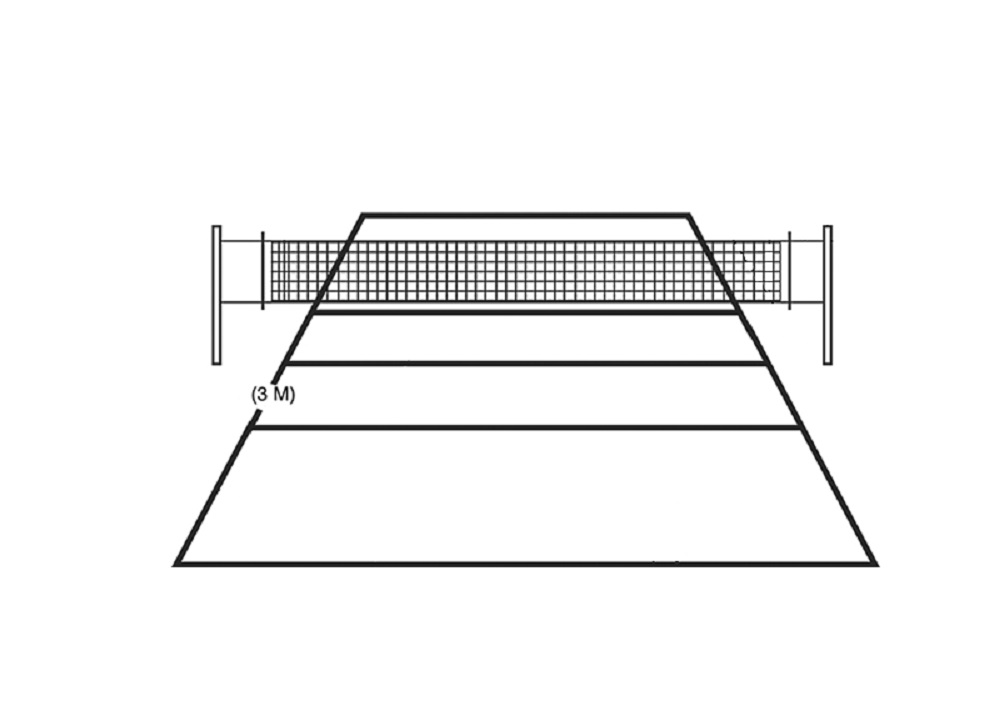
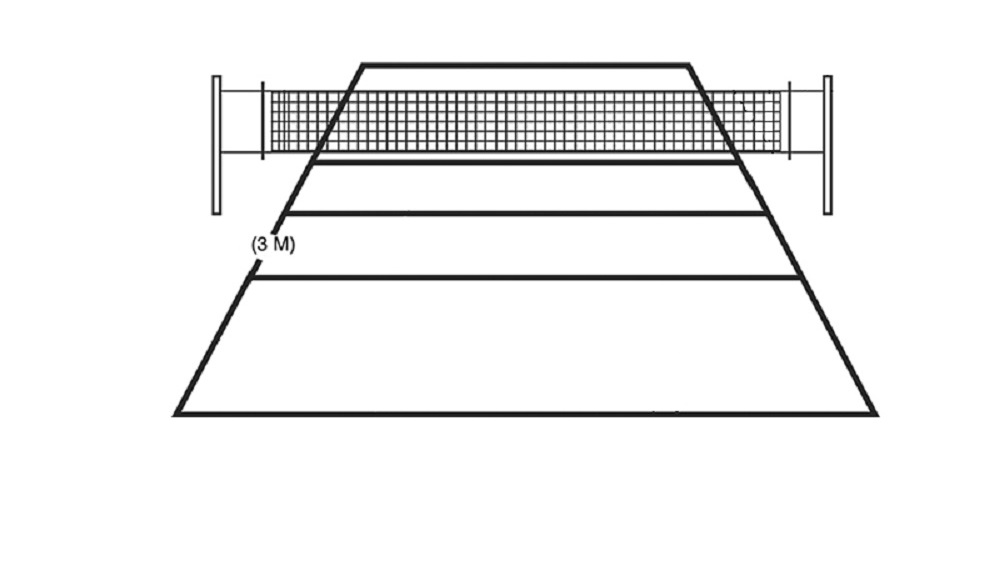
update

Changed region(s): [[0.155, 0.0893, 0.899, 0.8039]]

diff --git a/web/rotate/css/def5.css b/web/rotate/css/def5.css
@@ -30,7 +30,7 @@
 	-webkit-border-radius: 5px;
 	text-align: center;
 	background-color: limegreen;
-	top: 355;
+	top: 205;
 	left: 300;
 }
 
@@ -56,7 +56,7 @@
 	-moz-border-radius: 5px;
 	-webkit-border-radius: 5px;
 	text-align: center;
-	top: 370;
+	top: 220;
 	left: 300;
 }
 #right {
@@ -69,7 +69,7 @@
 	-moz-border-radius: 5px;
 	-webkit-border-radius: 5px;
 	text-align: center;
-	top: 400;
+	top: 250;
 	left: 680;
 }
 #libero {
@@ -82,7 +82,7 @@
 	-moz-border-radius: 5px;
 	-webkit-border-radius: 5px;
 	text-align: center;
-	top: 470;
+	top: 320;
 	left: 700;
 }
 #outside1 {
@@ -95,7 +95,7 @@
 	-moz-border-radius: 5px;
 	-webkit-border-radius: 5px;
 	text-align: center;
-	top: 470;
+	top: 320;
 	left: 240;
 }
 #outside2 {
@@ -108,7 +108,7 @@
 	-moz-border-radius: 5px;
 	-webkit-border-radius: 5px;
 	text-align: center;
-	top: 470;
+	top: 320;
 	left: 470;
 }
 
@@ -161,6 +161,6 @@
 	-moz-border-radius: 5px;
 	-webkit-border-radius: 5px;
 	text-align: center;
-	top: 600;
+	top: 450;
 	left: 470;
 }
